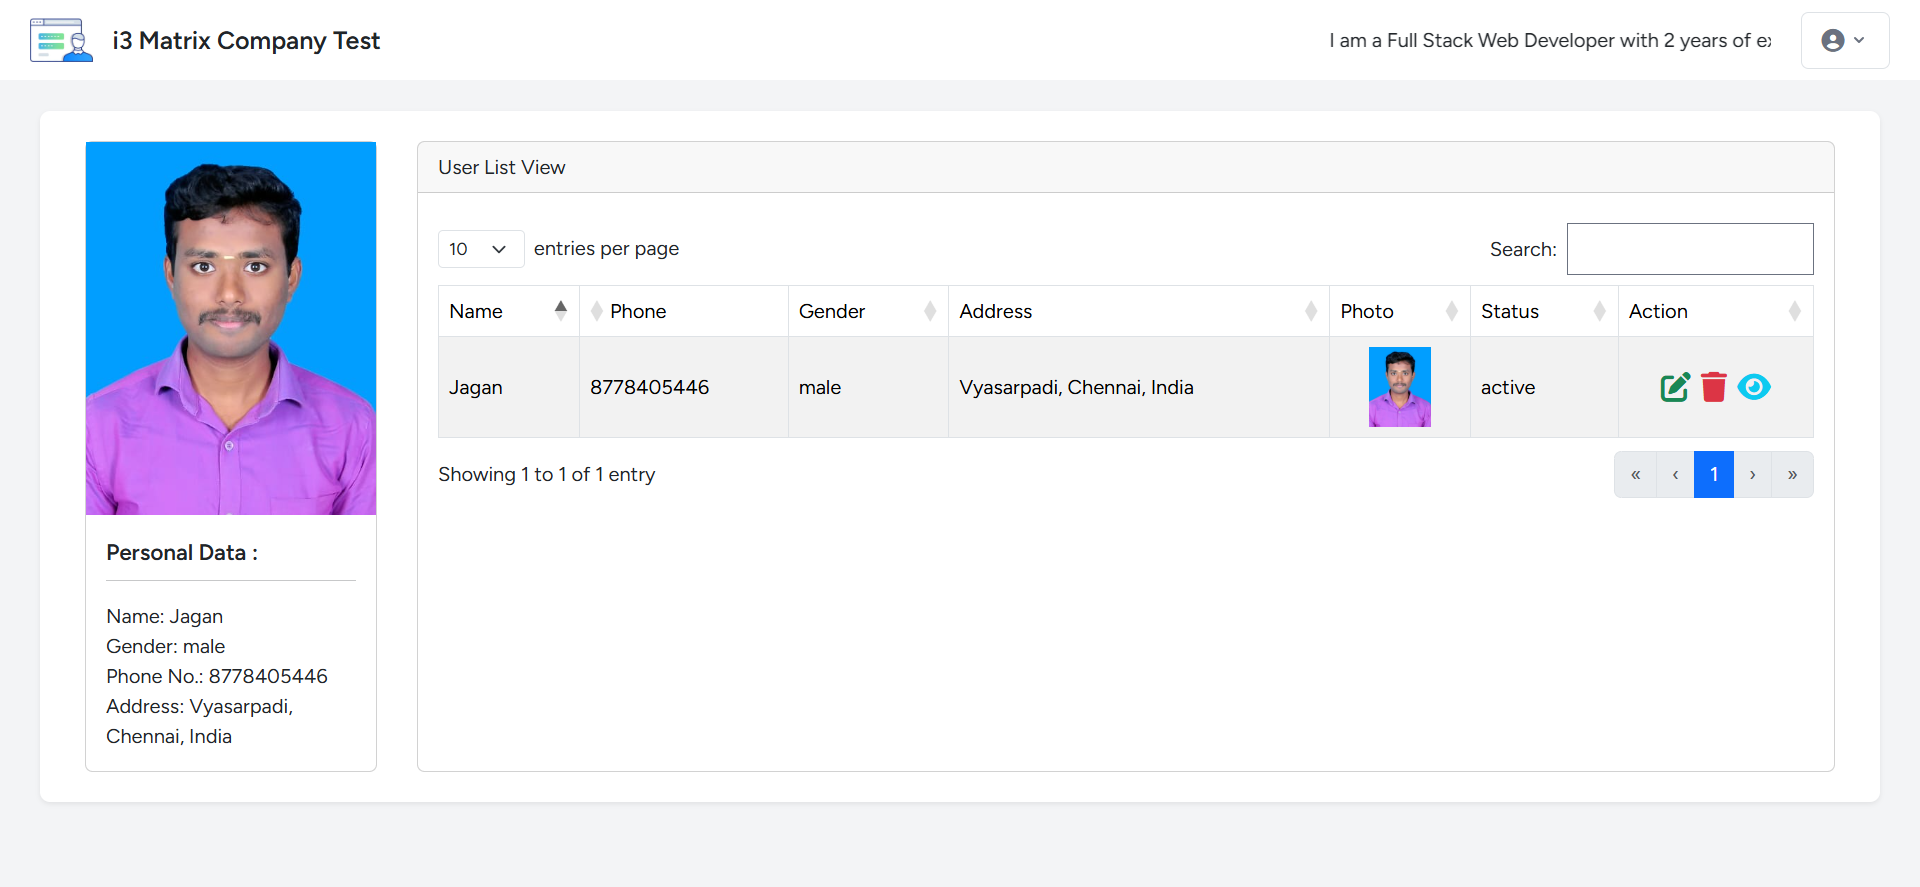
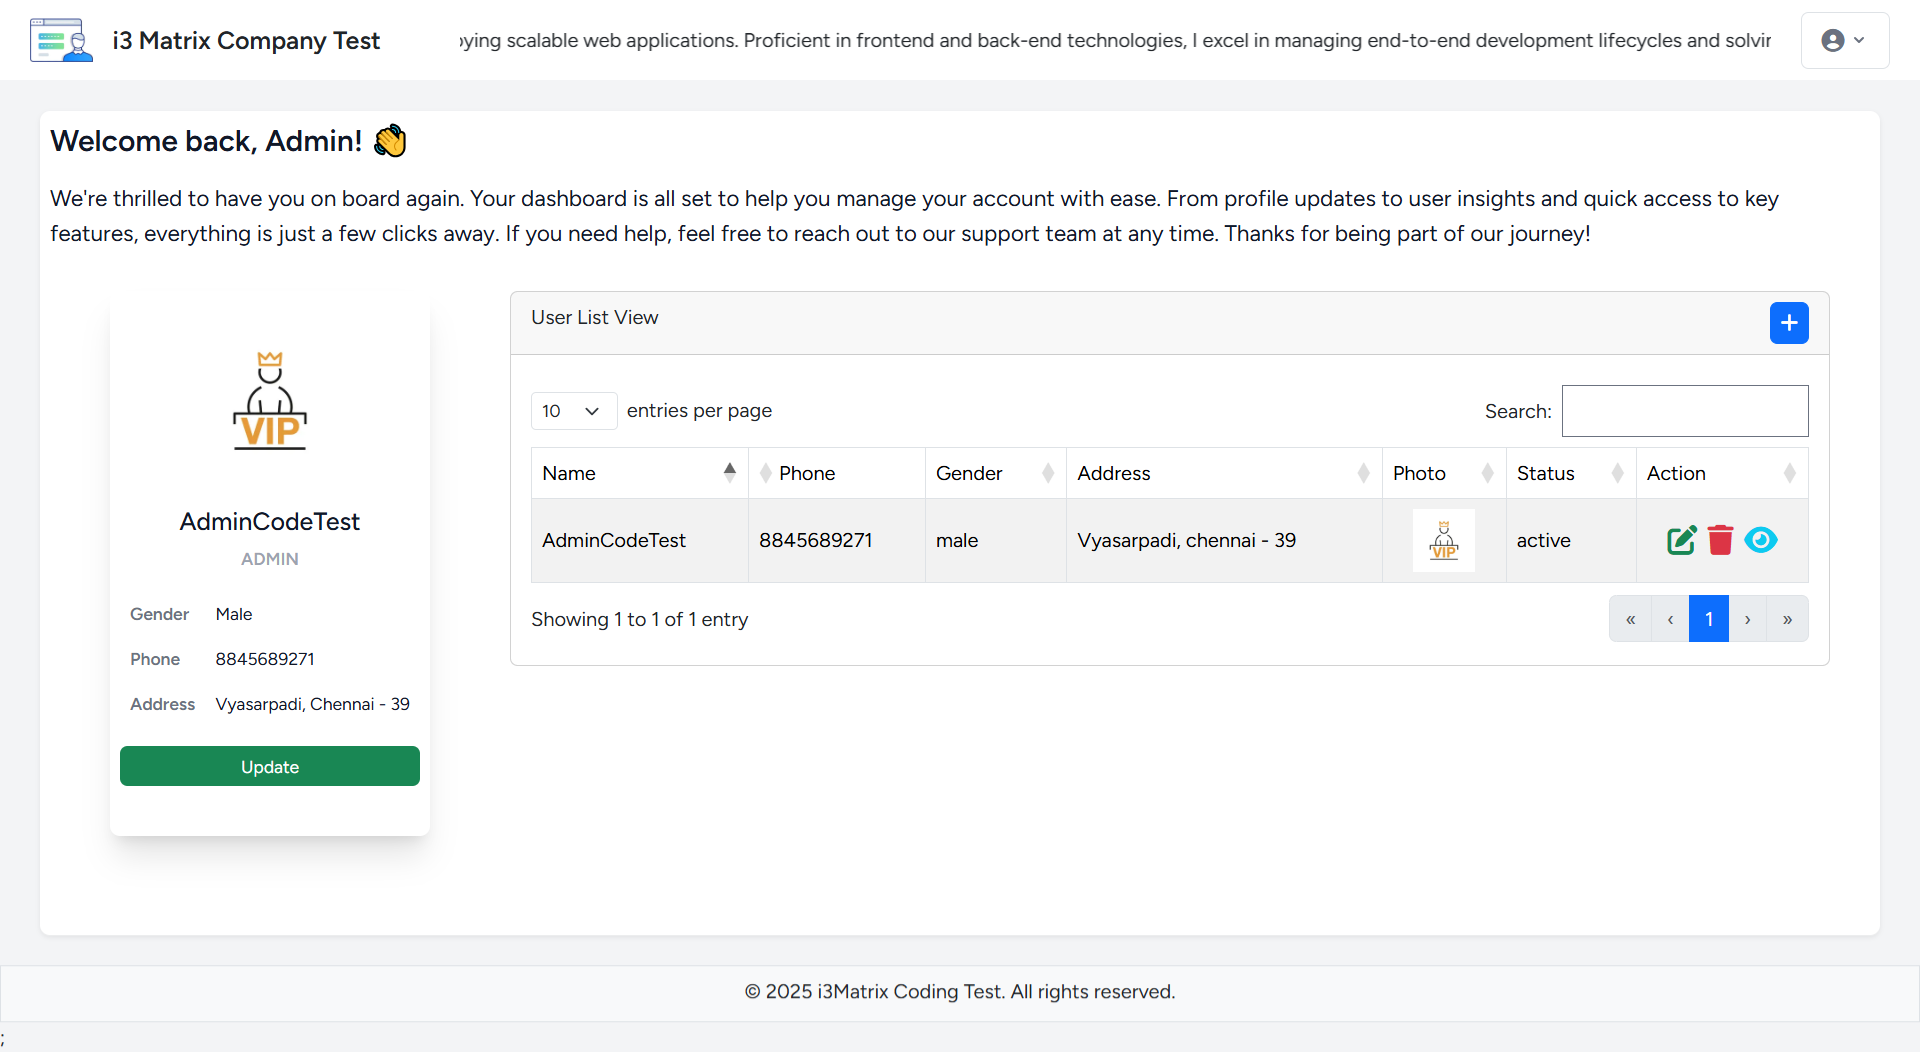
Home page image changed and added step to create admin login

diff --git a/resources/views/dashboard.blade.php b/resources/views/dashboard.blade.php
@@ -14,7 +14,7 @@
                     </div>
                     <div class="row p-3 w-100">
                         <div class="col-12 col-md-12 col-lg-3 mb-3">
-                            <div class="flex items-center w-full justify-center mb-5 mt-5">
+                            <div class="flex items-center w-full justify-center mb-5 mt-2">
                                 <div class="max-w-xs">
                                     <div class="bg-white shadow-xl rounded-lg py-3">
                                         <div class="photo-wrapper p-2">
@@ -53,7 +53,7 @@
                             </div>
                         </div>
                         <div class="col-12 col-md-12 col-lg-9 mb-3">
-                            <div class="card w-full mt-5">
+                            <div class="card w-full mt-2">
                                 <div class="card-header flex justify-content-between">
                                     User List View
                                     @if (Auth::user()->role=='admin')

diff --git a/README.md b/README.md
@@ -130,7 +130,17 @@ cd <repository_folder>
 
     php artisan migrate
 
-### Step 5: Run the Application
+### Step 5: Run Migrations
+
+    Run the sees command to create the admin loging enter in thr user table:
+
+    php artisan db:seed
+
+    Username: AdminCodeTest
+
+    Password: Admin12&4$
+
+### Step 6: Run the Application
 
 #### 1. Start the Laravel application server:
 
